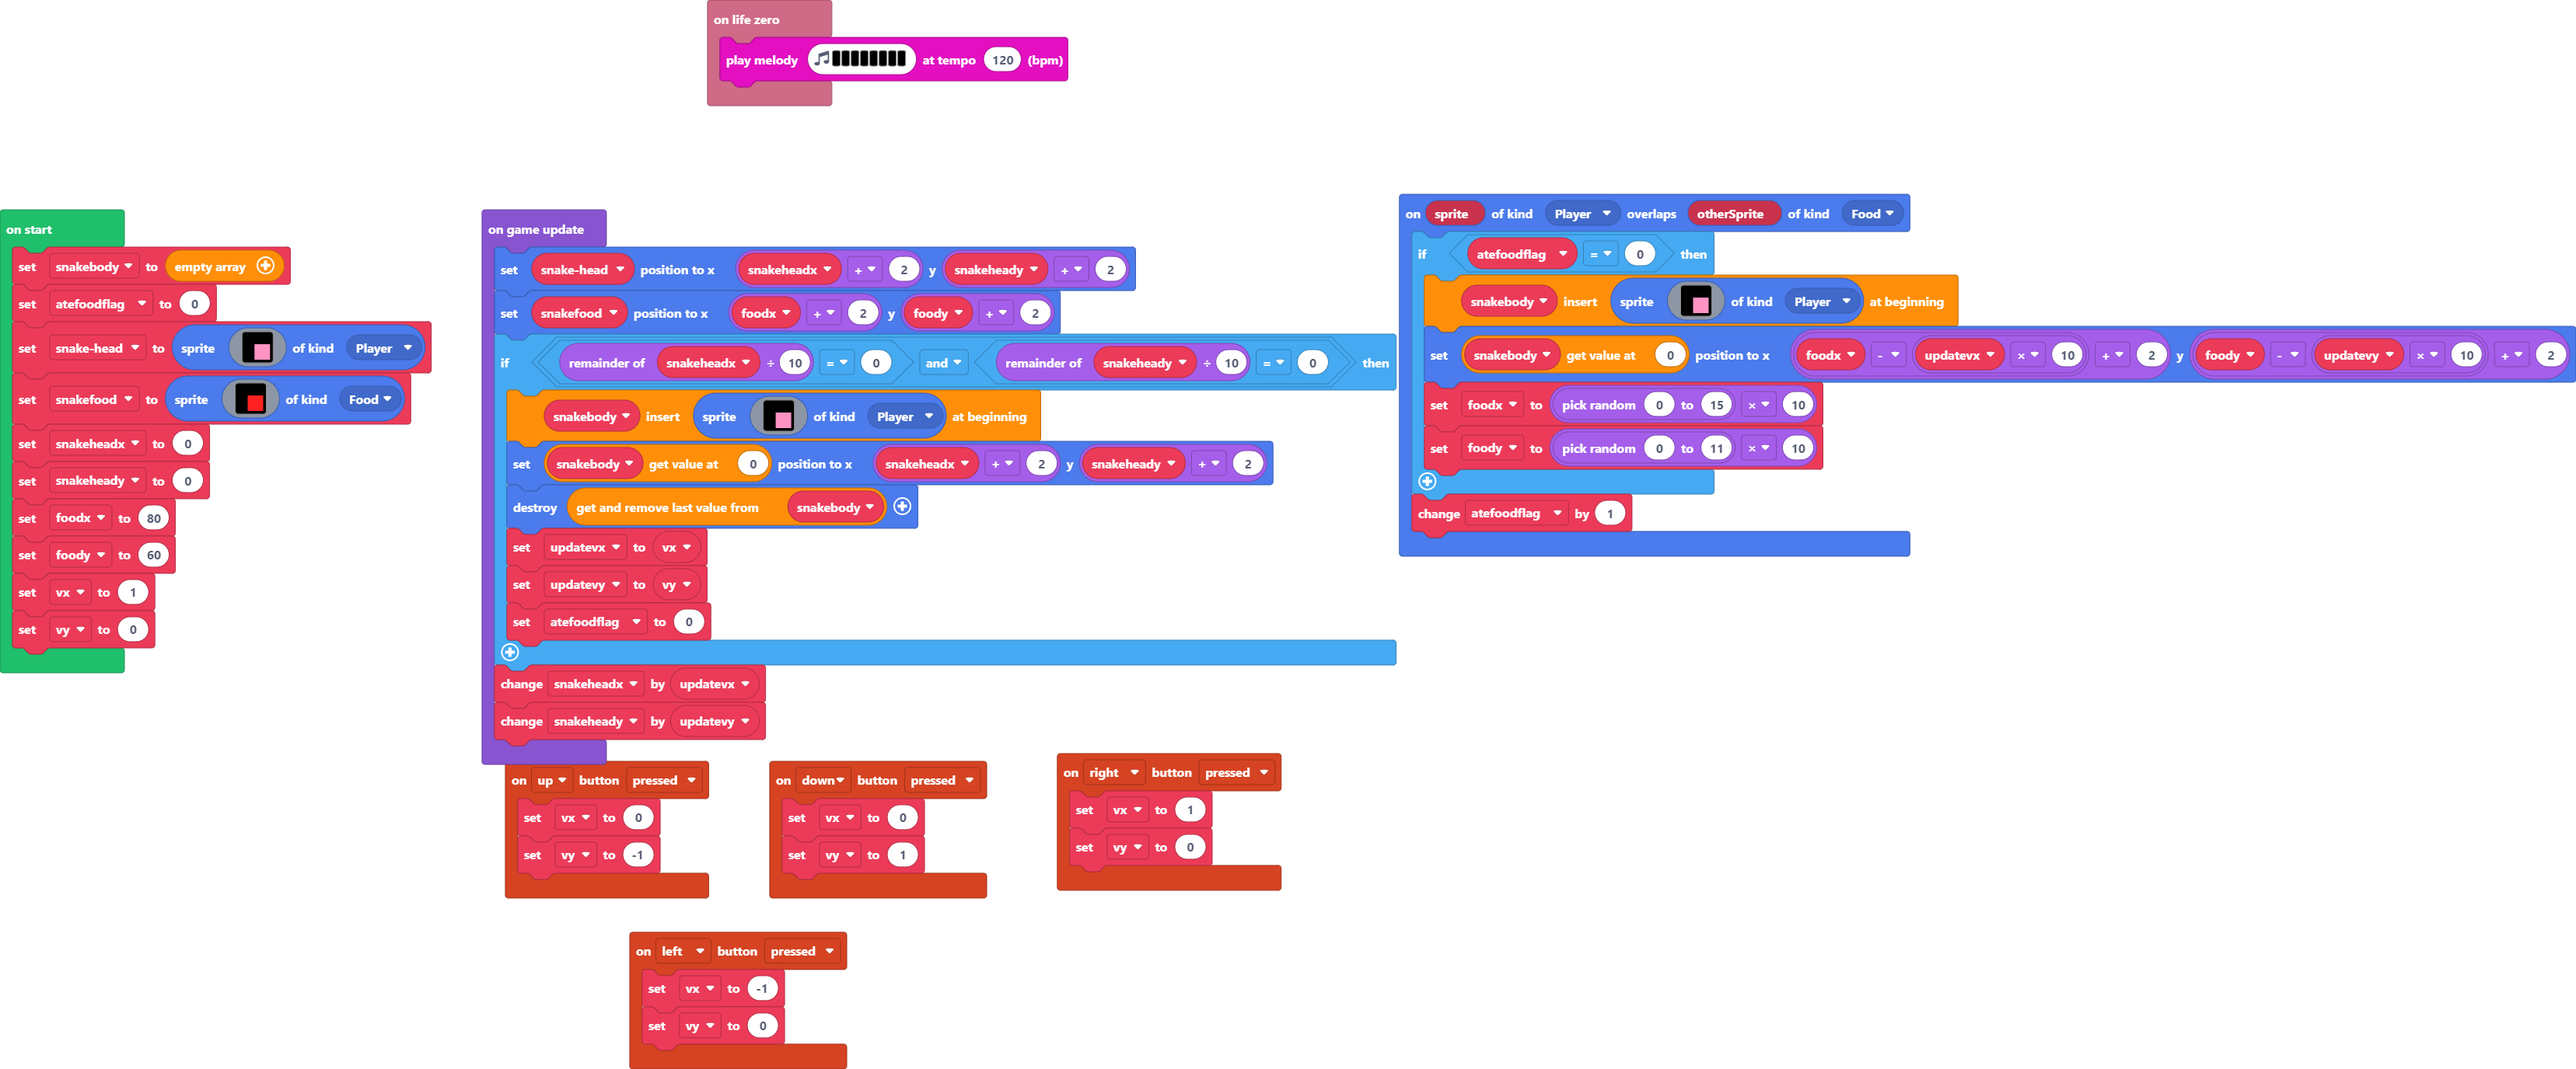
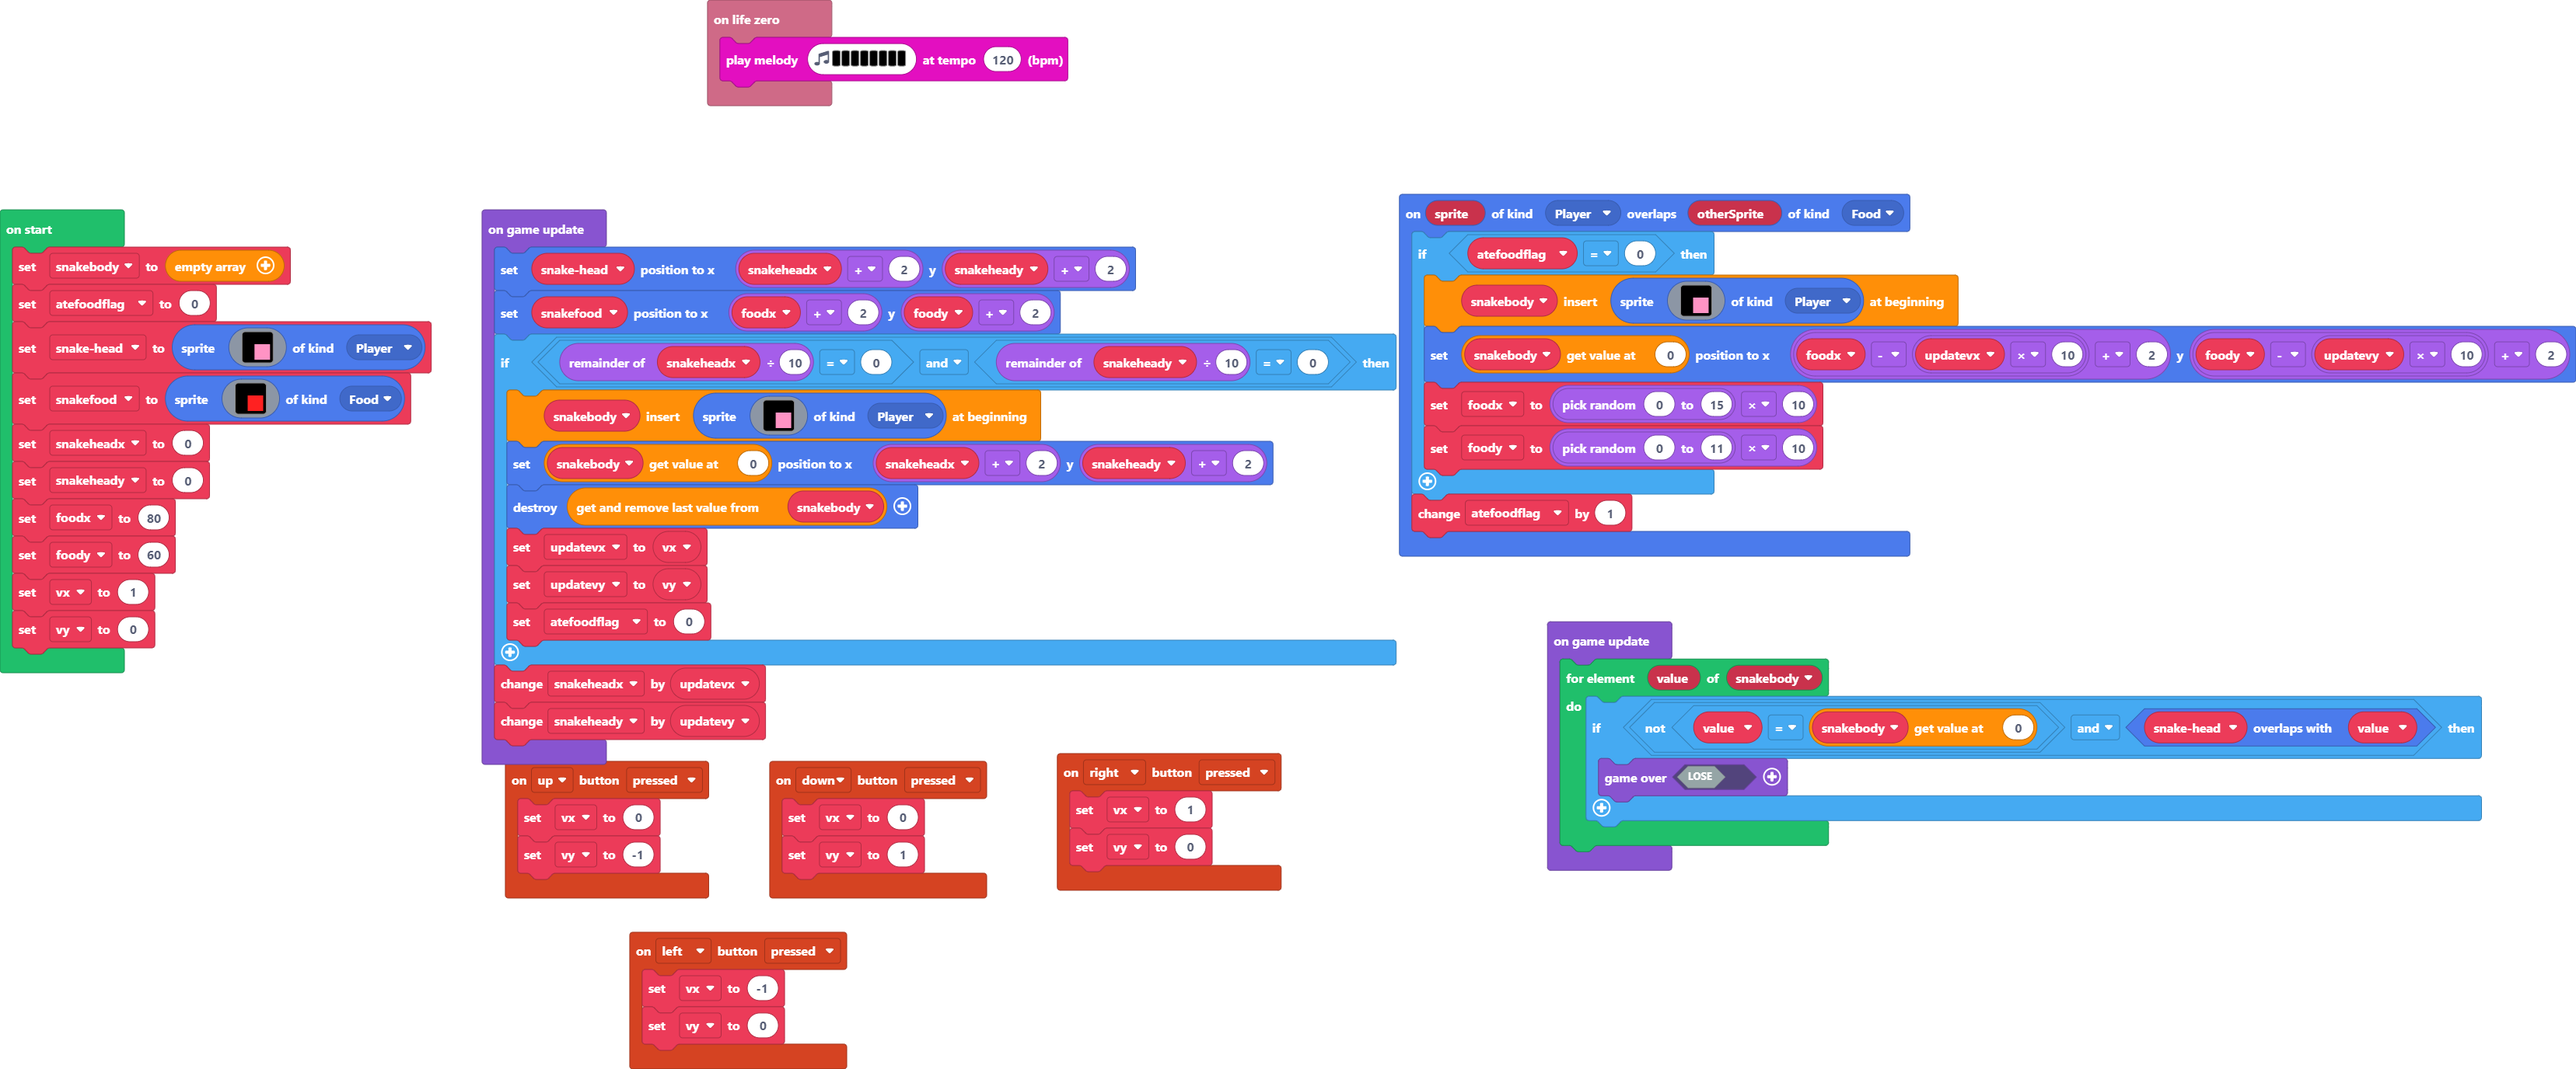
not able to eat second food

Changed region(s): [[0.5907, 0.5625, 0.9638, 0.8125]]

diff --git a/main.ts b/main.ts
@@ -126,3 +126,10 @@ game.onUpdate(function () {
     snakeheadx += updatevx
     snakeheady += updatevy
 })
+game.onUpdate(function () {
+    for (let value of snakebody) {
+        if (!(value == snakebody[0]) && snakehead.overlapsWith(value)) {
+            game.over(false)
+        }
+    }
+})
